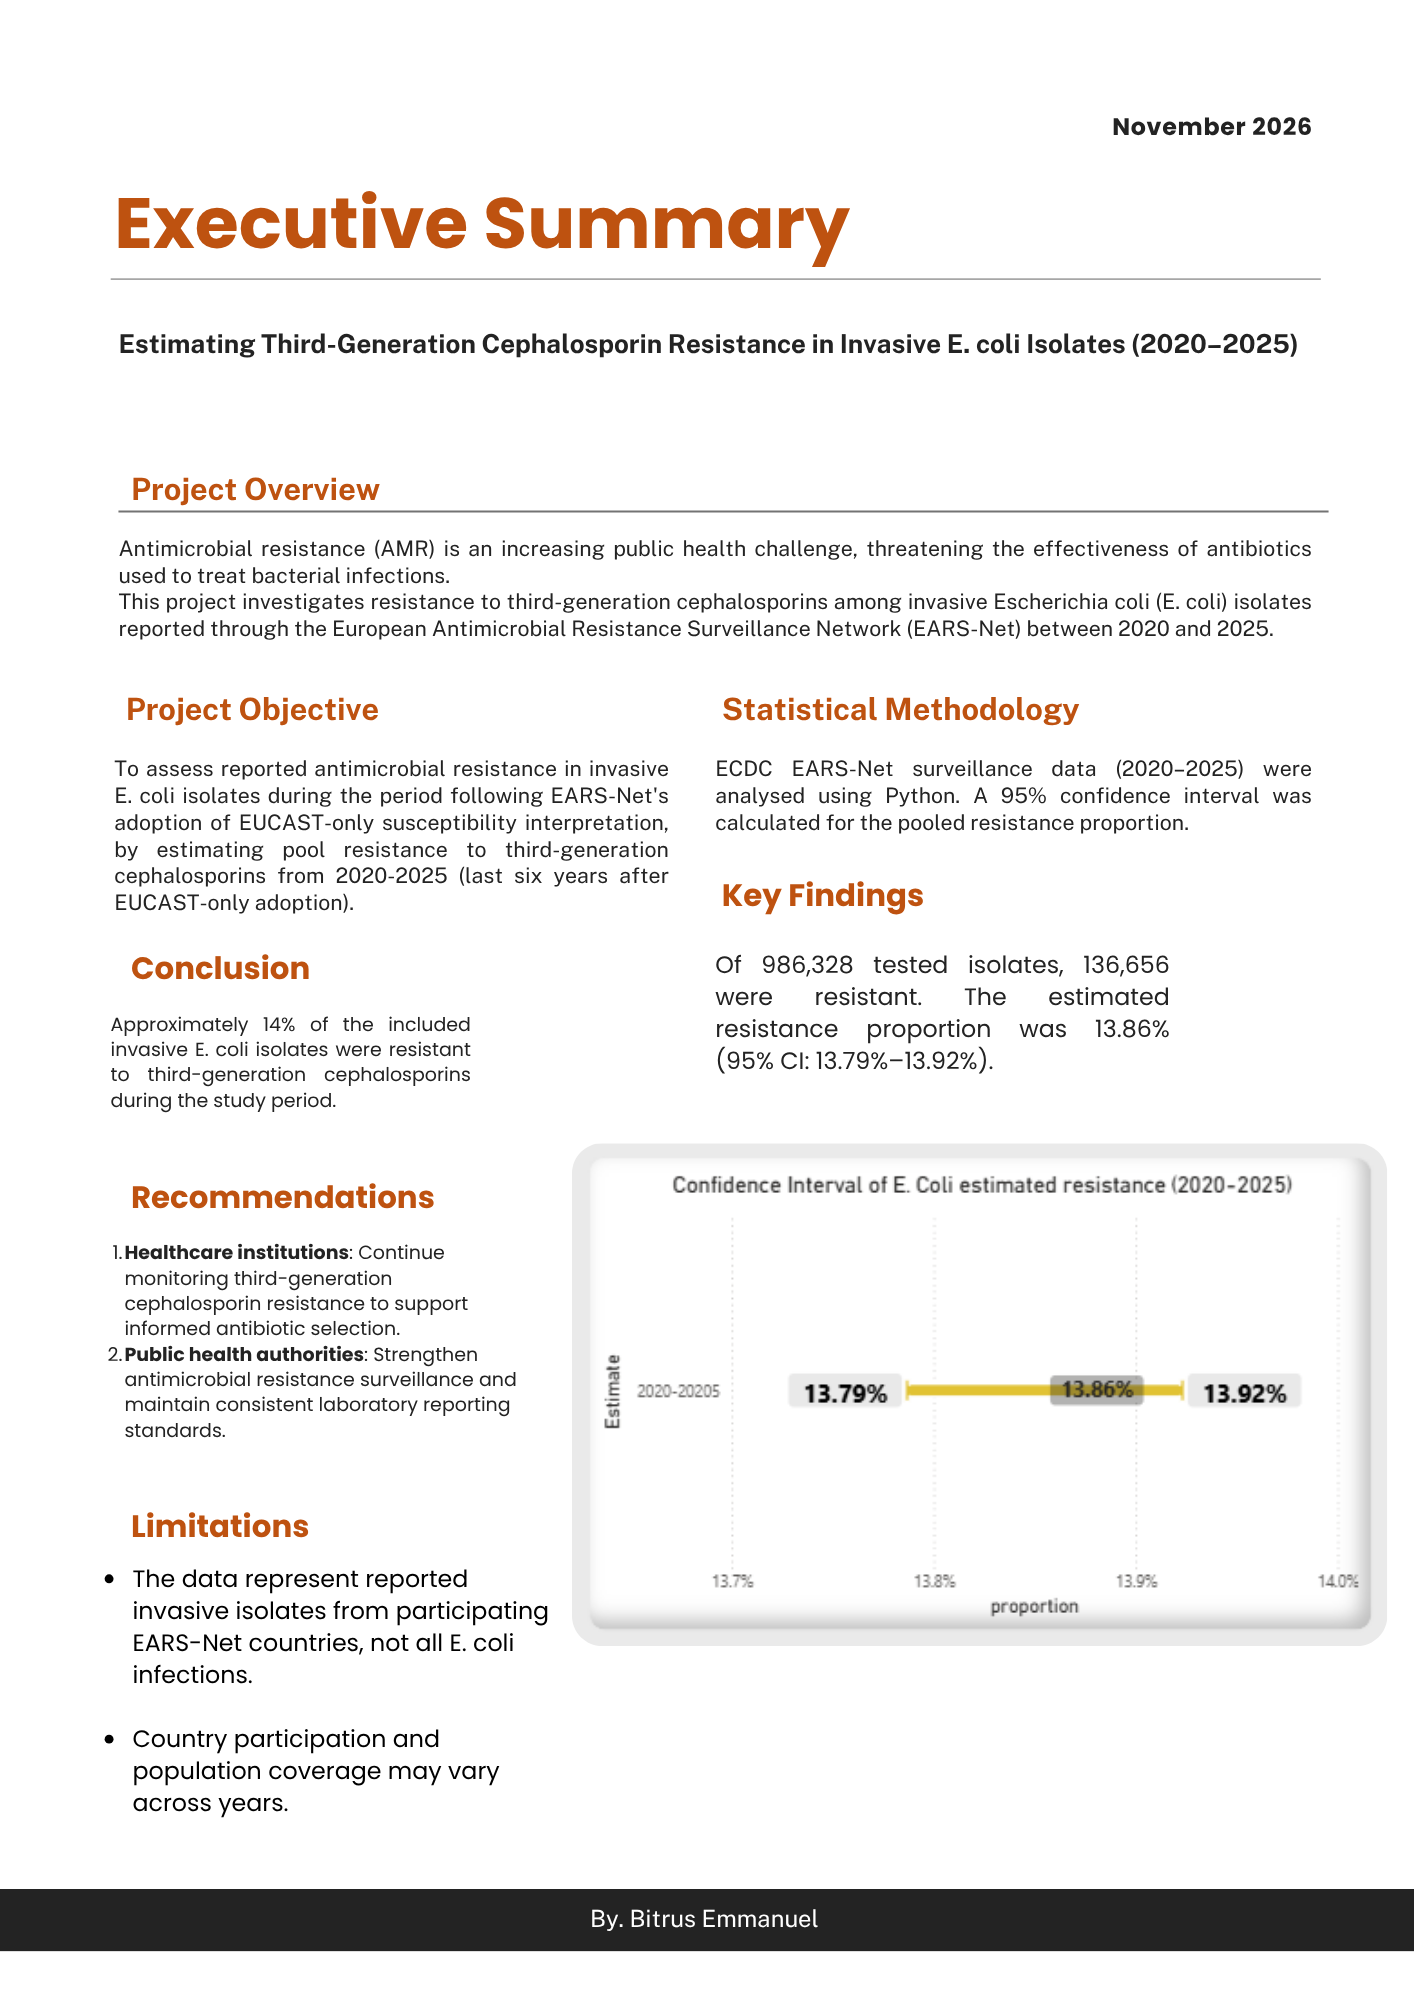
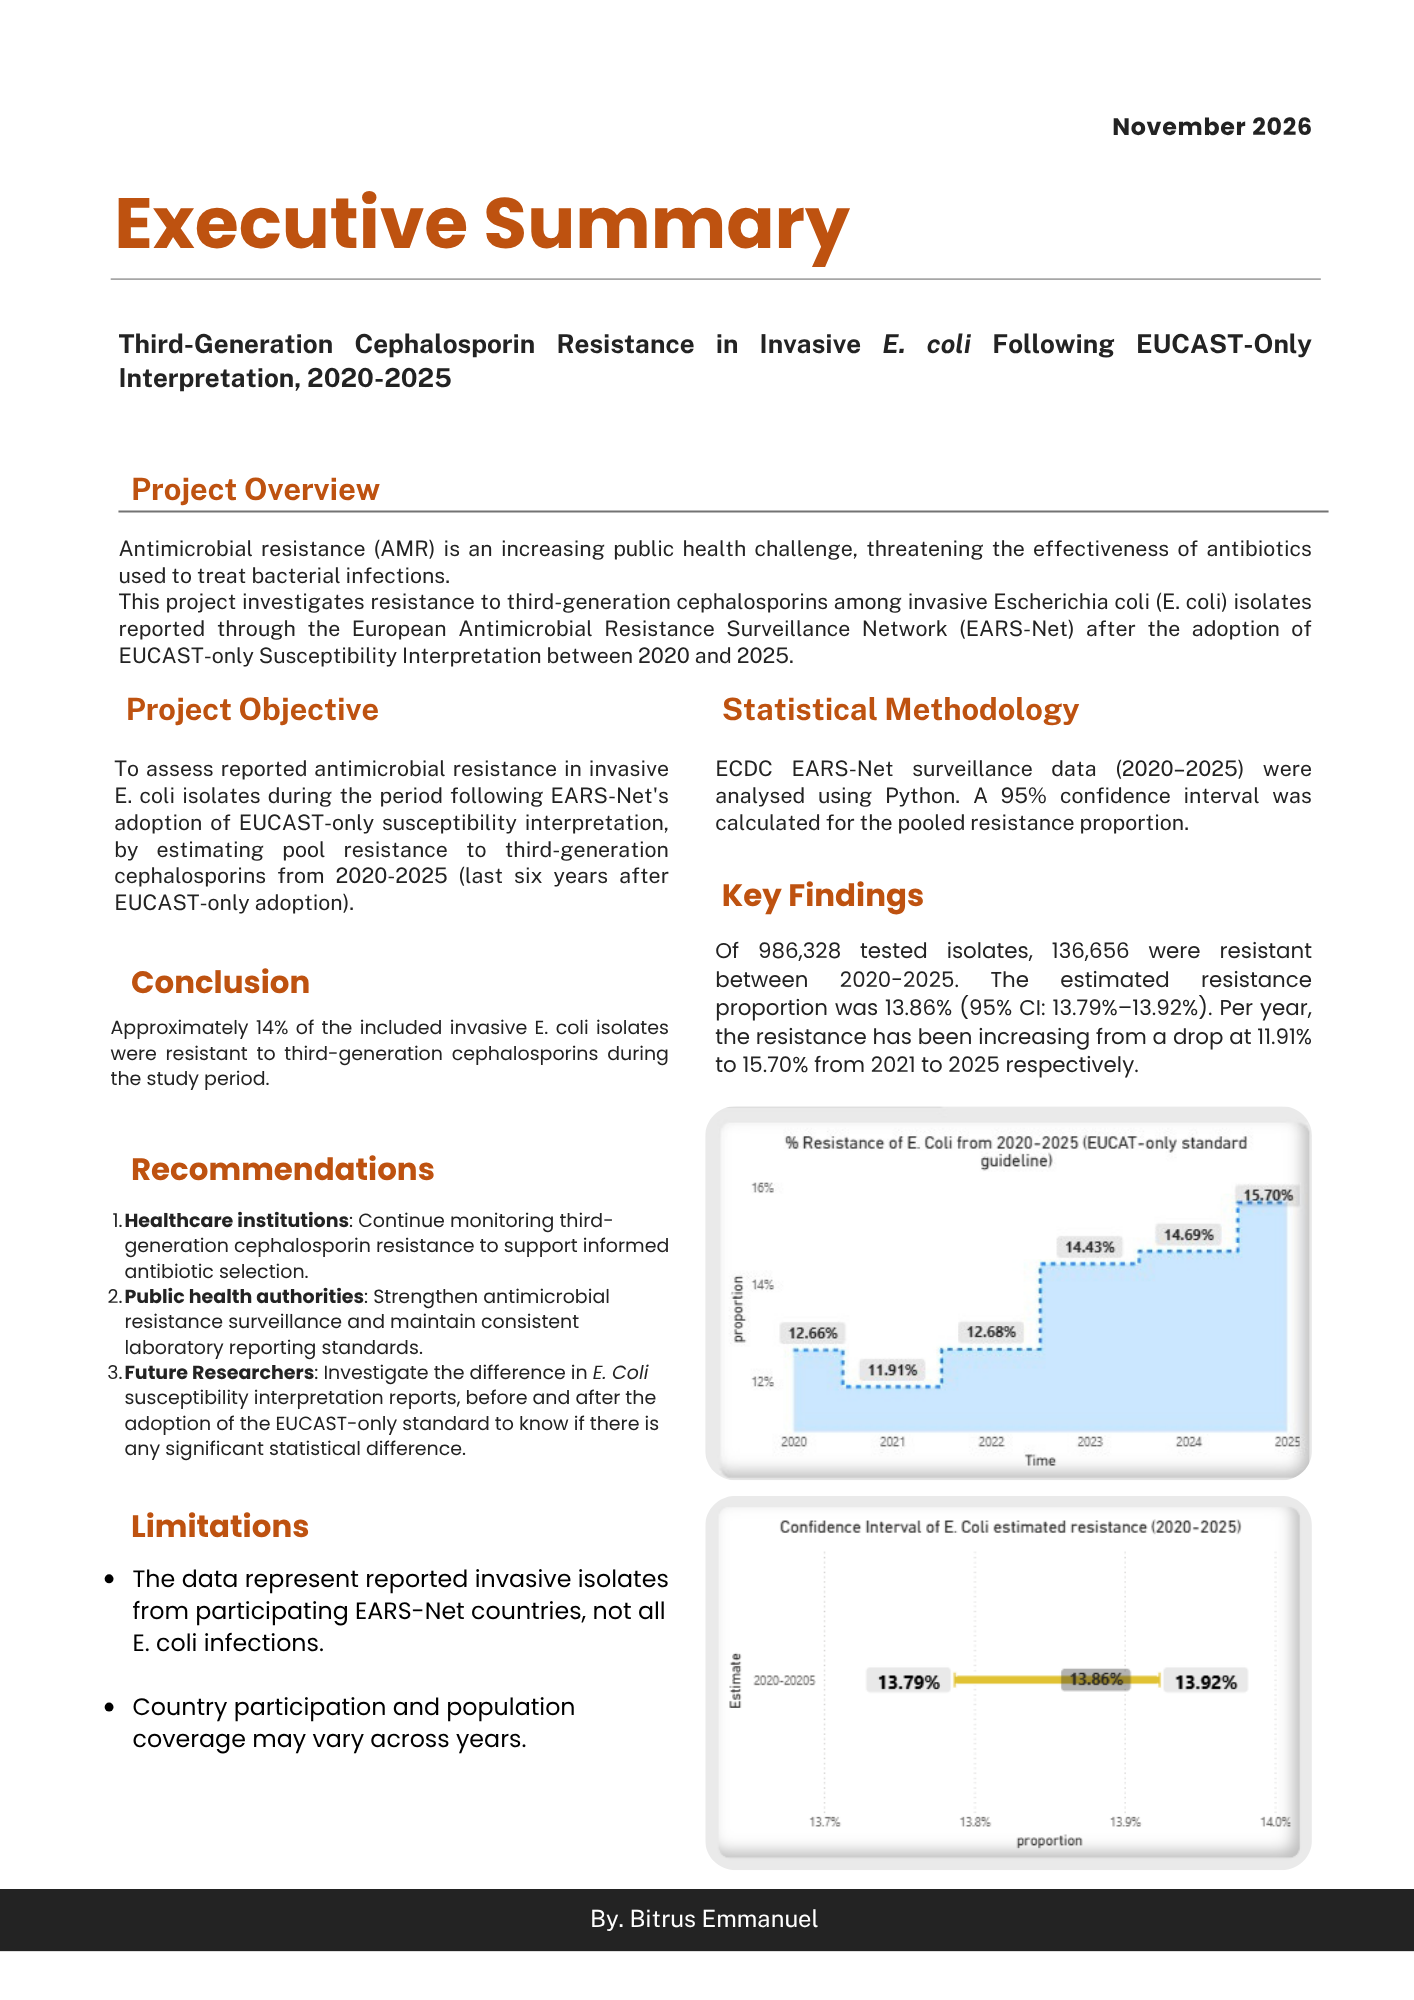
Update README and Executive Summary

diff --git a/README.md b/README.md
@@ -2,7 +2,7 @@
 
 ## Project Overview
 
-This project is part of a three-project pharmaceutical statistics portfolio investigating antimicrobial resistance (AMR) in *Escherichia coli* (*E. coli*) in the context of EUCAST's standardisation of antibiotic susceptibility testing and interpretation.
+This project is focused on investigating antimicrobial resistance (AMR) in *Escherichia coli* (*E. coli*) in the context of EUCAST's standardisation of antibiotic susceptibility testing and interpretation.
 
 The portfolio explores resistance estimation, historical resistance comparisons and antibiotic treatment comparisons using confidence intervals, hypothesis testing and A/B testing.
 
@@ -51,9 +51,9 @@ The analysis estimated that 13.86% of invasive *E Coli* isolates reported throug
 
 ## Recommendations
 
-1. Health Institutions: Continue monitoring third-generation cephalosporin resistance to support informed antibiotic selection.
-2. Public Health Authorities: Strenghten antimicrobial resistance surveillance and maintain consistent laboratory reporting standards.
-3. Future Researchers: Investigate resistance patterns across individual countries and examine change over time, accounting for difference in surveillance coverage.
+1. **Health Institutions:** Continue monitoring third-generation cephalosporin resistance to support informed antibiotic selection.
+2. **Public Health Authorities:** Strenghten antimicrobial resistance surveillance and maintain consistent laboratory reporting standards.
+3. **Future Researchers:** Investigate resistance patterns across individual countries, pre and post the EUCAST-only susceptibility interpretation, accounting for difference in surveillance coverage.
 
 
 ### Limitations
